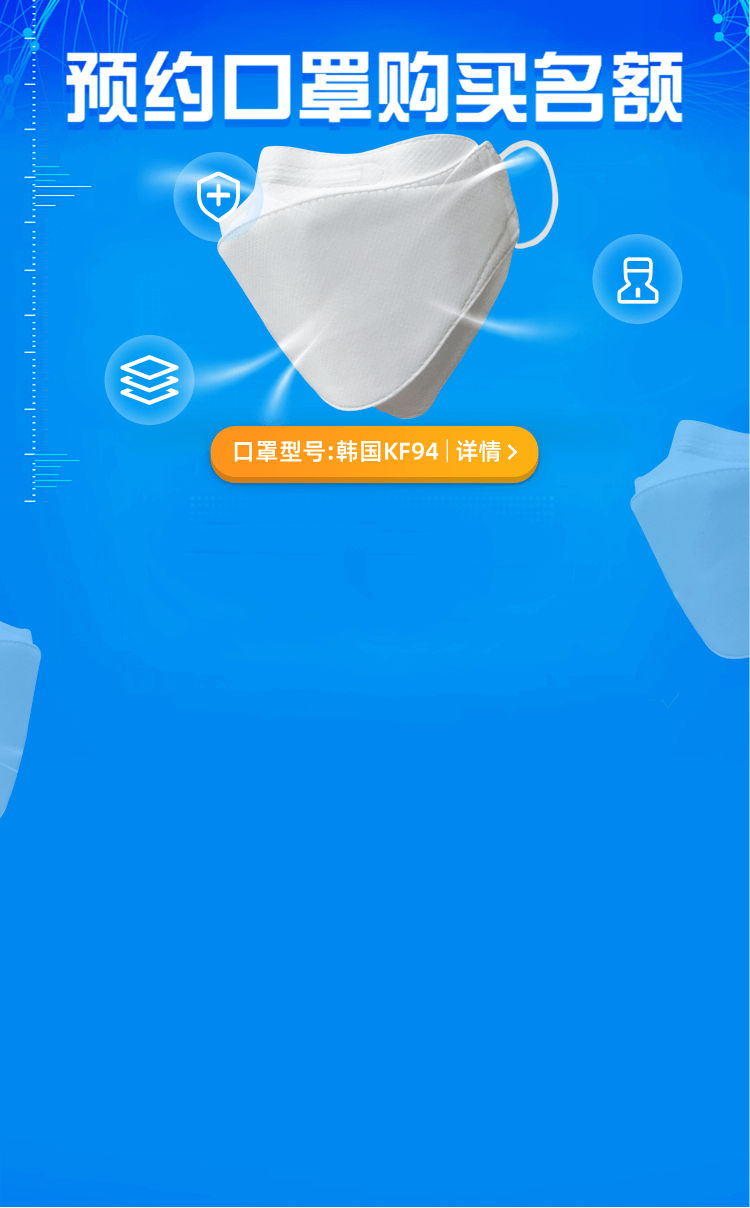
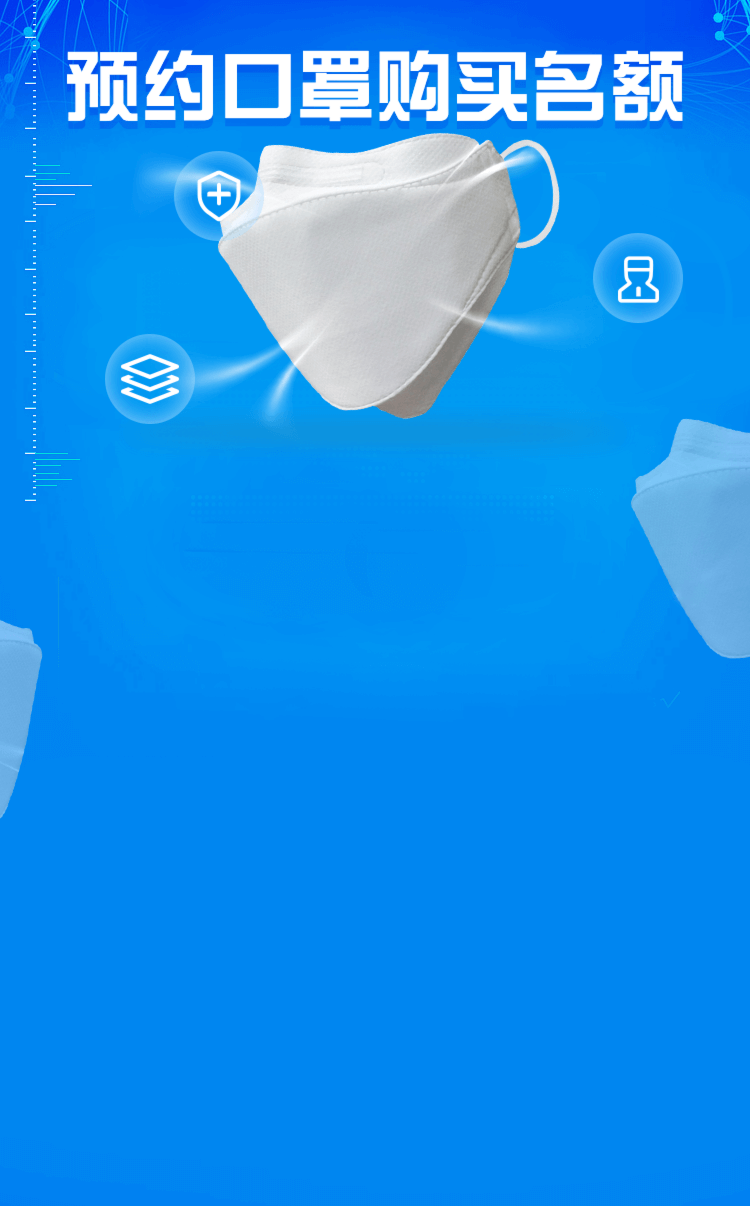
新版口罩

diff --git a/src/router/maskSubscribe2/mask-subscribe.js b/src/router/maskSubscribe2/mask-subscribe.js
@@ -12,6 +12,7 @@ import moment from 'moment'
 import './index.scss'
 
 import TitleImg from './img/title.png'
+import BtnImg from './img/bg_btn.png'
 
 export default class MaskSubscribe extends React.Component {
   state = {
@@ -139,6 +140,10 @@ export default class MaskSubscribe extends React.Component {
       })
   }
 
+  toDetails = () => {
+    this.props.history.push('/mask-details')
+  }
+
   // 预约按钮点击 // 打开弹窗  // 打开后获取验证码
   onSubscribe = (amount, id) => {
     if (amount === 0) {
@@ -189,6 +194,9 @@ export default class MaskSubscribe extends React.Component {
     return (
       <div className='mask-subscribe'>
         <div className='bef-bg'>
+          <div className='bef-btn-box'>
+            <img className='bef-btn' src={BtnImg} onClick={this.toDetails} />
+          </div>
           {type === 1 && (
             <div className='bef-body'>
               <div className='bef-time-box'>
@@ -212,11 +220,13 @@ export default class MaskSubscribe extends React.Component {
                   <img className='img2' src={TitleImg} />
                 </div>
                 <div className='content'>
-                  <div>1. 2月6号9：00开始预约口罩；</div>
-                  <div>2. 每人每次限购5只口罩，数量有限，预约完为止；</div>
-                  <div>3. 预约成功后请于2月6号13：00-17：00至指定预约门店领取，逾期未领取自动失效；</div>
+                  <div>1. 每人每天限购口罩2只，每5天可预约一次；</div>
                   <div>
-                    4. 指定领取地点：浙北超市红旗路店/碧浪湖店/米兰店/织里店，按照预约门店至服务台，凭个人身份证购买。
+                    2.
+                    领取时间：2020年2月15日-2月22日每天早上8点开通预约，售价19.9元/只，预约成功后次日10：00-17：00凭本人身份证号至安吉购物中心烟酒柜台付款后领取；
+                  </div>
+                  <div>
+                    3. 口罩数量有限，以提交申请的现后次序排序，口罩总量约满后即关闭当日预约通道，次日8点重新开始。
                   </div>
                 </div>
               </div>

diff --git a/src/router/maskSubscribe2/component/popup/index.js b/src/router/maskSubscribe2/component/popup/index.js
@@ -24,12 +24,12 @@ class TipsPopup extends React.Component {
             <img className='img2' src={TitleImg} />
           </div>
           <div className='content'>
-            <div>1. 2月6号9：00开始预约口罩；</div>
-            <div>2. 每人每次限购5只口罩，数量有限，预约完为止；</div>
-            <div>3. 预约成功后请于2月6号13：00-17：00至指定预约门店领取，逾期未领取自动失效；</div>
+            <div>1. 每人每天限购口罩2只，每5天可预约一次；</div>
             <div>
-              4. 指定领取地点：浙北超市红旗路店/碧浪湖店/米兰店/织里店，按照预约门店至服务台，凭个人身份证购买。
+              2.
+              领取时间：2020年2月15日-2月22日每天早上8点开通预约，售价19.9元/只，预约成功后次日10：00-17：00凭本人身份证号至安吉购物中心烟酒柜台付款后领取；
             </div>
+            <div>3. 口罩数量有限，以提交申请的现后次序排序，口罩总量约满后即关闭当日预约通道，次日8点重新开始。</div>
           </div>
         </div>
       </div>

diff --git a/src/router/routes.js b/src/router/routes.js
@@ -20,8 +20,18 @@ const DoubleTwelve = loadable(() => import('./double-twelve'))
 const ActivityModalThreeSecond = loadable(() => import('./activity-modal-three-second'))
 const MaskSubscribe = loadable(() => import('./maskSubscribe/mask-subscribe'))
 const QuerySubscribe = loadable(() => import('./maskSubscribe/query-subscribe'))
+const MaskSubscribe2 = loadable(() => import('./maskSubscribe2/mask-subscribe'))
+const MaskDetails = loadable(() => import('./maskSubscribe2/mask-details'))
 
 const routes = [
+  {
+    path: '/mask-details', // 口罩详情
+    component: MaskDetails
+  },
+  {
+    path: '/mask-subscribe2', // 口罩预约2
+    component: MaskSubscribe2
+  },
   {
     path: '/mask-subscribe', // 口罩预约
     component: MaskSubscribe

diff --git a/src/router/maskSubscribe2/index.scss b/src/router/maskSubscribe2/index.scss
@@ -3,6 +3,15 @@
   background: #0086f0;
   min-height: 100vh;
   .bef-bg {
+    .bef-btn-box {
+      width: 100%;
+      padding-top: 438px;
+      text-align: center;
+      .bef-btn {
+        width: 356px;
+        height: 78px;
+      }
+    }
     position: relative;
     color: #fff;
     font-size: 26px;
@@ -16,7 +25,7 @@
       //   left: 0;
       //   top: 0;
       width: 100%;
-      padding-top: 438px;
+      padding-top: 20px;
     }
     .bef-time-box {
       text-align: center;
@@ -104,7 +113,7 @@
     // left: 0;
     // top: 0;
     width: 100%;
-    padding-top: 462px;
+    padding-top: 20px;
     padding-bottom: 120px;
     .mask-rule-btn {
       position: absolute;

diff --git a/src/router/maskSubscribe2/component/subscribe-popup/subscribe-popup.js b/src/router/maskSubscribe2/component/subscribe-popup/subscribe-popup.js
@@ -96,6 +96,7 @@ class TipsPopup extends React.Component {
   }
 
   testName = () => {
+    window.scrollTo(0, 0)
     this.setState(
       prevState => {
         return {
@@ -124,6 +125,7 @@ class TipsPopup extends React.Component {
   }
 
   testIdCardNo = () => {
+    window.scrollTo(0, 0)
     this.setState(
       prevState => {
         return {
@@ -143,6 +145,7 @@ class TipsPopup extends React.Component {
   }
 
   testVerifyCode = () => {
+    window.scrollTo(0, 0)
     this.setState(
       prevState => {
         return {

diff --git a/src/router/maskSubscribe2/mask-details.js b/src/router/maskSubscribe2/mask-details.js
@@ -1,0 +1,15 @@
+import React, { Component } from 'react'
+import img from './img/details.jpg'
+
+export default class MaskDetails extends Component {
+  componentDidMount() {
+    document.title = '详情'
+  }
+  render() {
+    return (
+      <div style={{ width: '100%' }}>
+        <img style={{ width: '100%' }} src={img} />
+      </div>
+    )
+  }
+}
